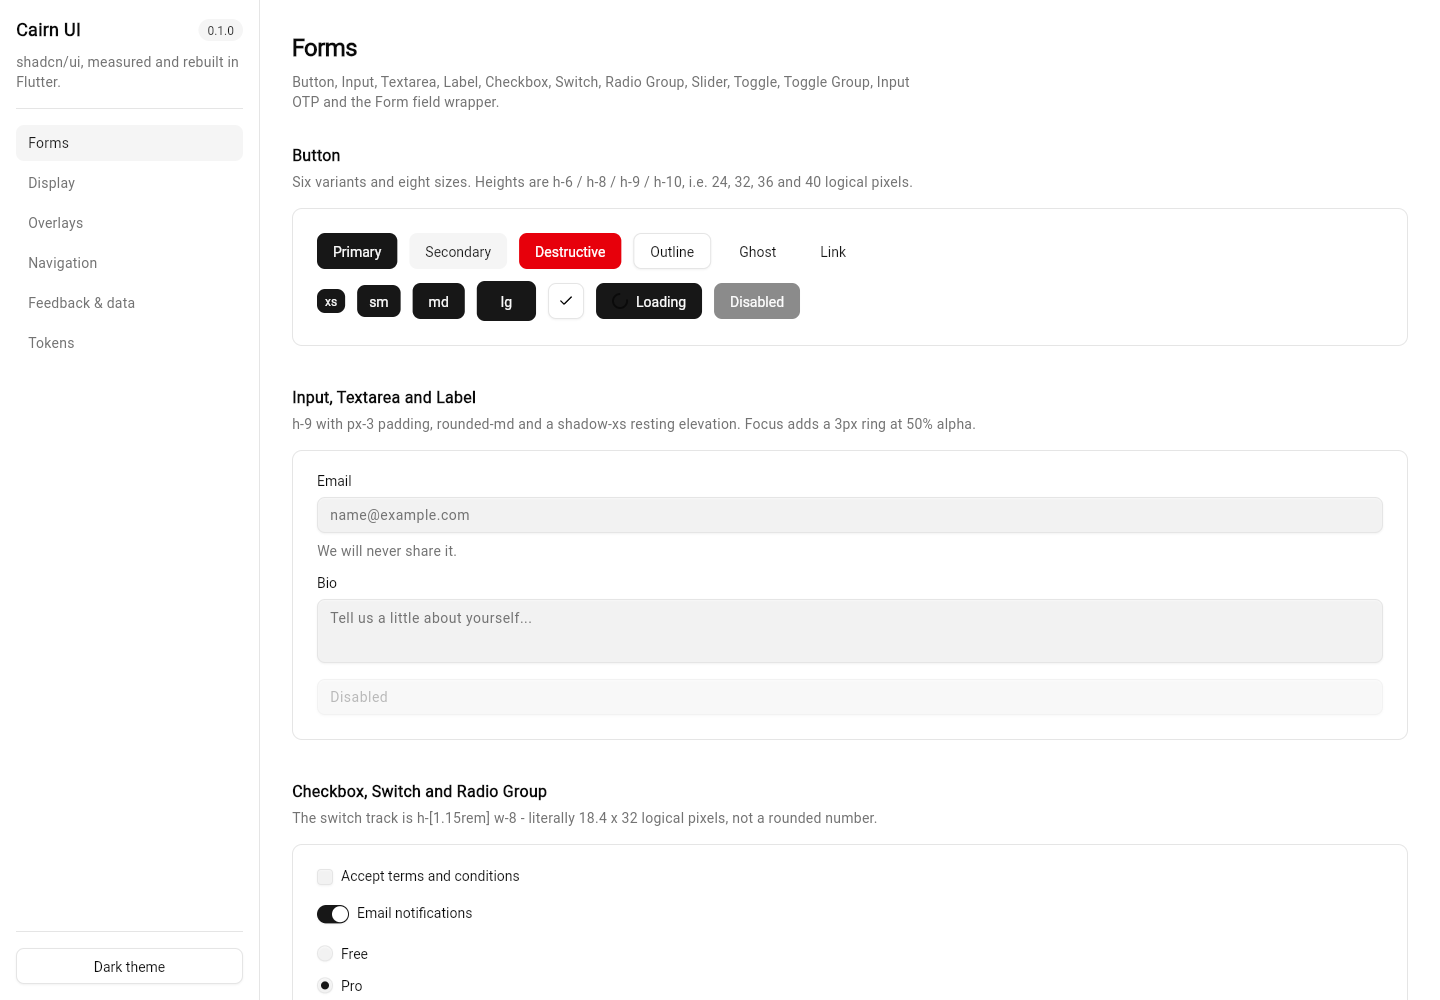
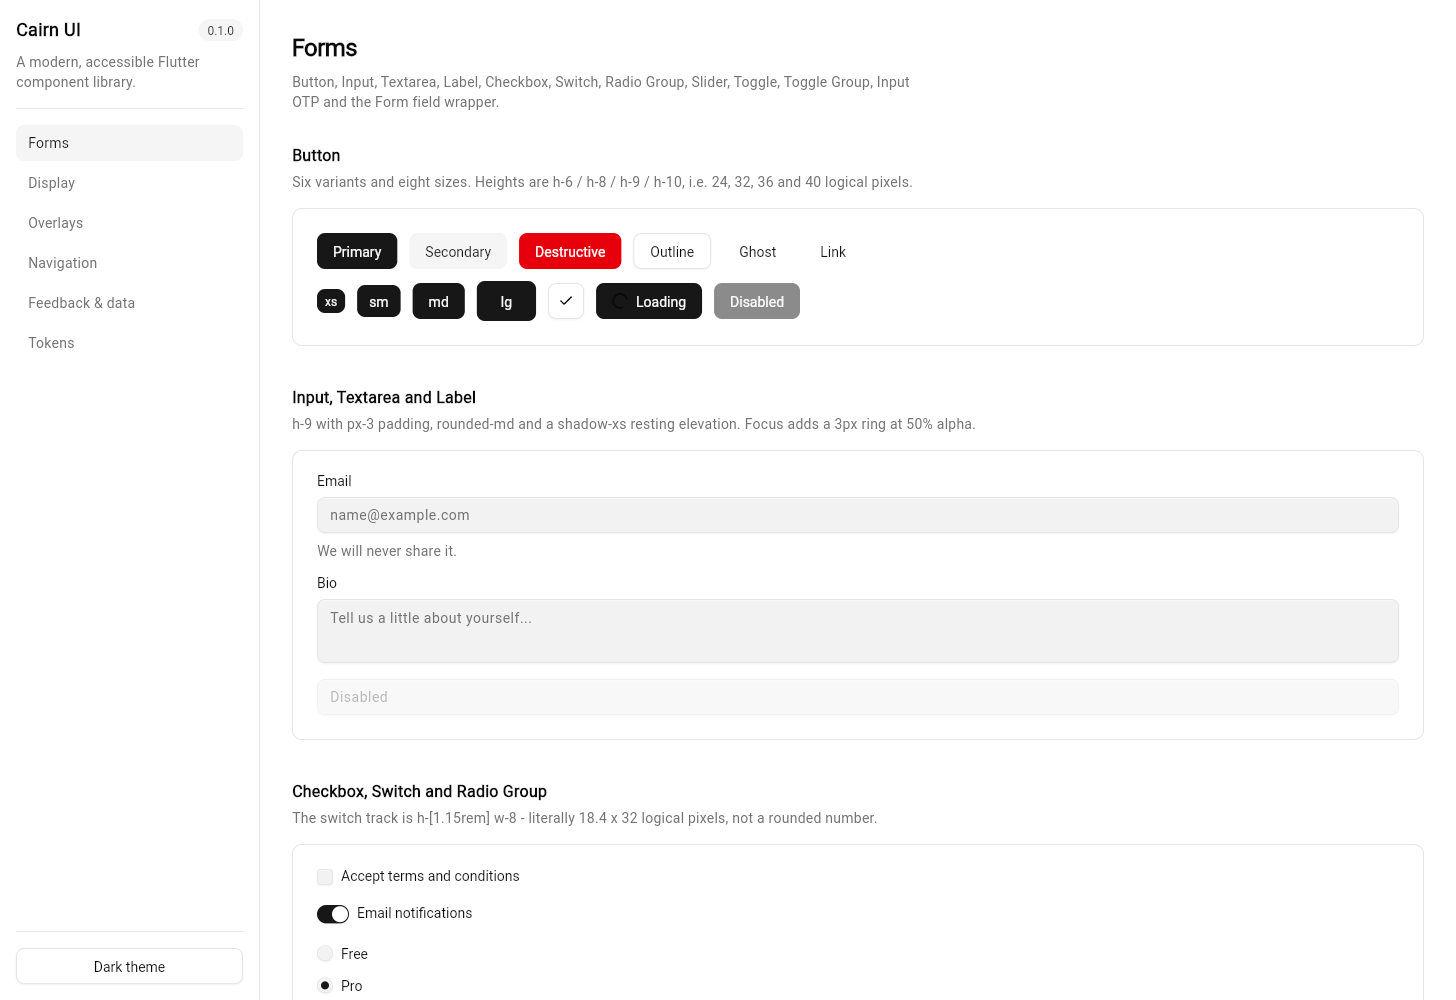
Remove remaining cmdk/Embla/Vaul comparisons, refresh catalogue screenshots
The shadcn/radix rebrand pass missed a handful of references to the
JS libraries shadcn/ui itself wraps (cmdk for Command, Embla for
Carousel, Vaul for Sheet) - same category of external comparison,
just not matched by a "shadcn" grep. Reframed each as Cairn's own
behavior/rationale. Also refreshed the four doc/images/*.png
screenshots, which still had the old tagline baked into their pixels
from before the rebrand (the example app source was already fixed;
grep can't see rasterized text).

diff --git a/lib/src/components/command/command.dart b/lib/src/components/command/command.dart
@@ -40,8 +40,8 @@ class CairnCommandItem {
 
   /// Extra terms that should match this item during filtering.
   ///
-  /// cmdk supports the same concept, so "Sign out" can be found by typing
-  /// "logout".
+  /// Lets an item be found by a synonym it doesn't display — "Sign out" can
+  /// be found by typing "logout".
   final List<String> keywords;
 
   /// Whether this item matches [query].
@@ -64,10 +64,10 @@ class CairnCommandItem {
 ///
 /// ## Keyboard model
 ///
-/// cmdk keeps focus in the input at all times and moves a *highlight* through
-/// the list with the arrow keys — the list items themselves are never focused.
-/// Cairn does the same: arrow keys and Enter are intercepted above the text
-/// field, so typing and navigating never fight each other.
+/// Focus stays in the input at all times; arrow keys move a *highlight*
+/// through the list instead of moving focus itself, so typing and
+/// navigating never fight each other. Arrow keys and Enter are intercepted
+/// above the text field to make this work.
 ///
 /// ```dart
 /// showCairnCommandPalette(
@@ -138,7 +138,7 @@ class _CairnCommandState extends State<CairnCommand> {
     final List<CairnCommandItem> list = _filtered;
     if (list.isEmpty) return;
     setState(() {
-      // Wraps, matching cmdk's `loop` behaviour.
+      // Wraps around at either end rather than stopping.
       _highlighted = (_highlighted + delta) % list.length;
       if (_highlighted < 0) _highlighted += list.length;
     });
@@ -157,8 +157,8 @@ class _CairnCommandState extends State<CairnCommand> {
     final CairnTheme theme = CairnTheme.of(context);
     final List<CairnCommandItem> list = _filtered;
 
-    // Group headings are emitted whenever the group changes, matching how
-    // cmdk renders `CommandGroup` blocks.
+    // Group headings are emitted whenever the group changes, so items are
+    // clustered under a heading rather than repeating it per item.
     String? lastGroup;
 
     return Shortcuts(

diff --git a/lib/src/components/sheet/sheet.dart b/lib/src/components/sheet/sheet.dart
@@ -355,7 +355,7 @@ class CairnDrawer extends StatelessWidget {
     final CairnTheme theme = CairnTheme.of(context);
 
     return GestureDetector(
-      // Drag down past a threshold dismisses, matching Vaul.
+      // Drag down past a velocity threshold dismisses the sheet.
       onVerticalDragEnd: (DragEndDetails details) {
         if (details.primaryVelocity != null && details.primaryVelocity! > 300) {
           Navigator.of(context).maybePop();
@@ -375,8 +375,8 @@ class CairnDrawer extends StatelessWidget {
             mainAxisSize: MainAxisSize.min,
             crossAxisAlignment: CrossAxisAlignment.stretch,
             children: <Widget>[
-              // Vaul's grab handle: `mx-auto mt-4 h-2 w-[100px] rounded-full
-              // bg-muted`.
+              // A drag handle hinting that the sheet can be swiped closed:
+              // centred, 4px tall, 100px wide, fully rounded, muted fill.
               Padding(
                 padding: const EdgeInsets.only(top: CairnSpacing.s4),
                 child: Center(

diff --git a/example/lib/sections/overlays_section.dart b/example/lib/sections/overlays_section.dart
@@ -223,7 +223,7 @@ class _OverlaysState extends State<_Overlays> {
           title: 'Command palette',
           note:
               'Focus stays in the input; arrow keys move a highlight through '
-              'the list, exactly as cmdk does.',
+              'the list instead of moving focus itself.',
           child: CairnButton(
             variant: CairnButtonVariant.outline,
             onPressed: () => _showCommand(context),

diff --git a/lib/src/components/combobox/combobox.dart b/lib/src/components/combobox/combobox.dart
@@ -102,7 +102,8 @@ class _CairnComboboxState<T> extends State<CairnCombobox<T>> {
     super.dispose();
   }
 
-  /// Reset the filter each time the menu opens, matching cmdk.
+  /// Reset the filter each time the menu opens, so a stale search from the
+  /// last time it was open doesn't hide items on reopen.
   void _onOpenChanged() {
     if (!_controller.isOpen) return;
     _query.clear();

diff --git a/lib/src/components/carousel/carousel.dart b/lib/src/components/carousel/carousel.dart
@@ -45,7 +45,7 @@ class CairnCarousel extends StatefulWidget {
   final double height;
 
   /// How much of the viewport one slide occupies. Below 1.0 the neighbouring
-  /// slides peek in, which Embla calls a "partial" slide.
+  /// slides peek in at the edges, hinting that the strip continues.
   final double viewportFraction;
 
   /// The gap between slides, in logical pixels.

diff --git a/test/components/overlay_test.dart b/test/components/overlay_test.dart
@@ -469,7 +469,7 @@ void main() {
       expect(
         find.text('Sign out'),
         findsOneWidget,
-        reason: 'cmdk matches keywords too',
+        reason: 'keywords should match too, not just the visible label',
       );
     });
 
